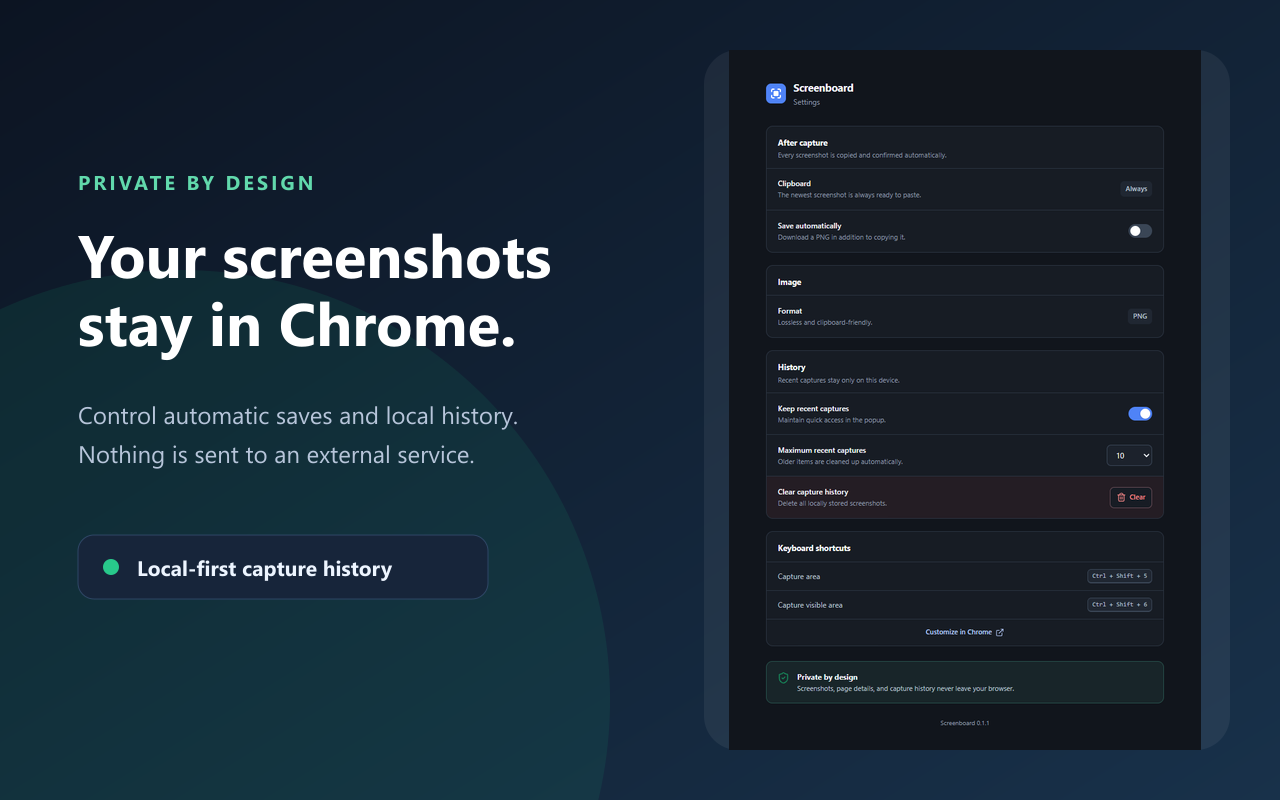
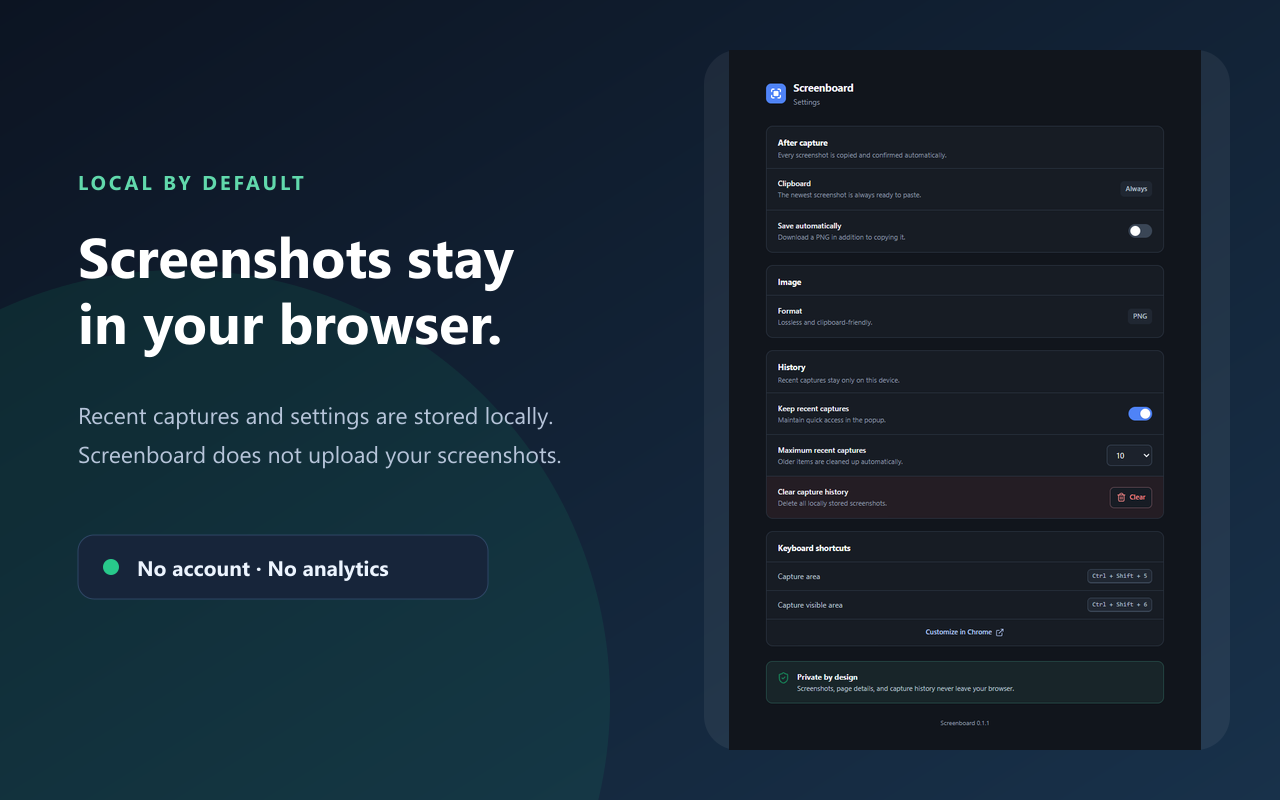
docs: improve Chrome Web Store listing

diff --git a/docs/chrome-web-store-listing.md b/docs/chrome-web-store-listing.md
@@ -7,31 +7,37 @@ This is the submission copy for Screenboard 0.1.1. The upload file is `dist/scre
 | Field | Fill in |
 | --- | --- |
 | Product name | `Screenboard` |
-| Summary | `Capture any area, element, viewport, or page and paste it anywhere.` |
-| Category | `Productivity` |
+| Summary | `Take screenshots of an area, element, visible page, or full page. Each capture is copied to your clipboard.` |
+| Category | `Tools` |
 | Language | `English (United States)` |
 | Homepage URL | `https://github.com/anaremore/screenboard` |
 | Support URL | `https://github.com/anaremore/screenboard/issues` |
 | Official URL | Leave blank unless you have verified a domain in the developer dashboard. |
 
+The short summary comes from the extension manifest in some versions of the dashboard. If the Summary field is not editable, use the revised wording in the next packaged extension update; the detailed description, links, and graphic assets can still be updated now.
+
 ### Detailed description
 
 ```text
-Screenboard makes screenshots ready to paste the moment a capture finishes.
+Screenboard takes screenshots and copies each PNG to your clipboard as soon as it is ready.
 
-Capture exactly what you need:
-• Drag over any area of a page
-• Capture the visible browser viewport
-• Capture an entire scrollable page
-• Point to and capture a specific page element
+Choose what to capture:
+• An area you drag over
+• One page element
+• The visible browser page
+• The full scrollable page
 
-Every successful capture is automatically copied as a PNG and confirmed on the page. Open Recent to copy it again, save it as a PNG, or delete it. Settings let you enable automatic downloads and choose how many recent captures to keep.
+After a capture:
+• Paste it immediately from your clipboard
+• Copy it again from Recent
+• Save it as a PNG or delete it from local history
+• Optionally download new captures automatically
 
-Private by design:
+Screenboard works locally:
 • No account
 • No external server or upload step
 • No analytics or advertising
-• Screenshots and recent history remain in local browser storage
+• Screenshots and Recent remain in your browser's local extension storage
 
 Area and visible captures include keyboard shortcuts. Chrome does not allow extensions to inject selection tools into protected pages such as chrome:// pages or the Chrome Web Store.
 ```
@@ -52,6 +58,8 @@ Upload these exact files:
 | Marquee promotional tile, 1400 × 560 | `store-assets/marquee-promo-1400x560.png` |
 
 A YouTube video is optional. The marquee promotional tile is also optional, but this kit includes one.
+
+Delete the current single screenshot before uploading this five-image set. Keep the numbered order shown above so the first image explains the capture-to-clipboard workflow and the later images cover selection, themes, Recent, and local settings.
 
 ## Privacy practices
 
